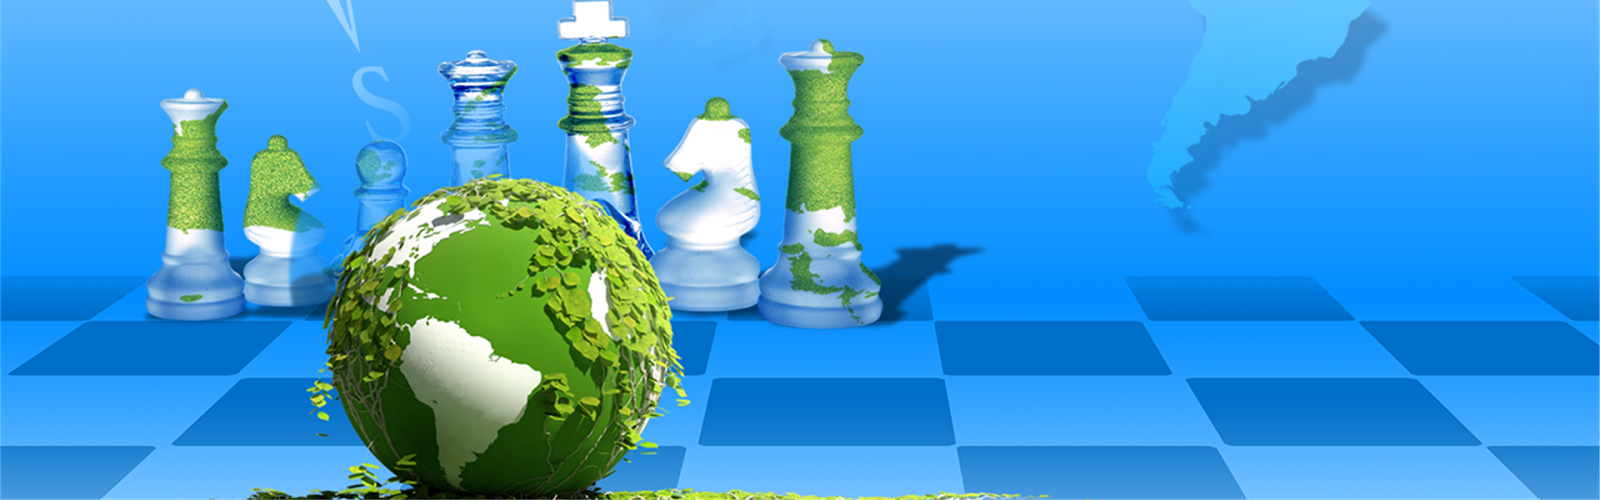
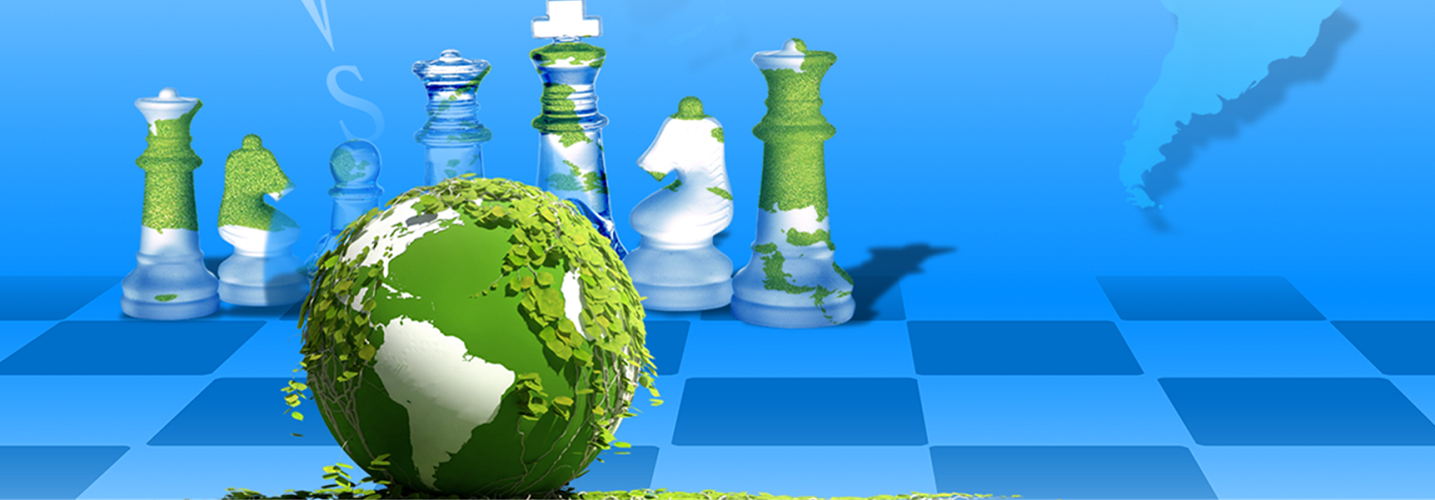
大图后续修改

diff --git a/static/css/home.css b/static/css/home.css
@@ -37,7 +37,7 @@ body {
 	height: 500px;
 	z-index: -10;
 	background: #FFF url(../image/h-enjoyevent-bg.jpg) no-repeat center center;
-	background-size: 100% 500px;
+	background-size: 1435px 500px;
 }
 #pic2 {
 	position: absolute;
@@ -51,7 +51,7 @@ body {
 	opacity:0;
 	filter:alpha(opacity=0); 
 	background: #FFF url(../image/3.png) no-repeat center center;
-	background-size:100% 500px;
+	background-size:1435px 500px;
 }
 #pic3 {
 	position: absolute;
@@ -65,7 +65,7 @@ body {
 	opacity:0;
 	filter:alpha(opacity=0); 
 	background: #FFF url(../image/4-4.jpg) no-repeat center center;
-	background-size:100% 500px;
+	background-size:1435px 500px;
 }
 #pic4 {
 	position: absolute;
@@ -79,7 +79,7 @@ body {
 	opacity:0;
 	filter:alpha(opacity=0); 
 	background: #FFF url(../image/h-x3v-bg.jpg) no-repeat center center;
-	background-size:100% 500px;
+	background-size:1435px 500px;
 }
 
 .current_pic .title1 h2 {
@@ -189,7 +189,7 @@ body {
 	text-align: center;
 	position: absolute;
 	top: 220px;
-	right: 100px;
+	right: 200px;
 }
 .high-title h2{
 	margin-bottom:40px;
@@ -222,7 +222,7 @@ body {
 	transform: translate3d(0,0,0);
 }
 .high-box {
-	width: 1005px;
+	width: 1200px;
 	height: 700px;
 	position: relative;
 	margin: auto;
@@ -341,7 +341,7 @@ body {
 	overflow: hidden;
 	position: absolute;
 	top: 0;
-	left: 40px;
+	left: 60px;
 	background: #000;
 }
 .figure1 {
@@ -368,7 +368,7 @@ body {
 #tip_top{
 	width:10px;
 	position:absolute;
-	left:97%;
+	left:92%;
 	top:325px;
 	z-index:14;
 }

diff --git a/static/js/pic.js b/static/js/pic.js
@@ -67,7 +67,7 @@ $(document).ready(function() {
   	run();             //加载页面时启动定时器  
 });
 function run() {  
-     interval = setInterval(fadetime, "6000");  
+     //interval = setInterval(fadetime, "6000");  
 }  
 function fadetime() {
 	$("#pic"+focus_fade).stop().animate({opacity: '0'},1000);

diff --git a/static/js/home.js b/static/js/home.js
@@ -77,6 +77,8 @@ $(document).ready(function() {
 });
 
 window.onload=function(){
+	var width=document.documentElement.clientWidth;
+	$(".title1 h3").css("left", parseInt(width/2)-717 + "px");
 	$("#pic1").addClass("current_pic");
 };
 

diff --git a/static/css/home_middle.css b/static/css/home_middle.css
@@ -71,6 +71,7 @@ li {
 	height:40px;
 	line-height:53px;
 }
+
 .title_right a{
 	color:#999;
 }

diff --git a/application/views/main_middle.php b/application/views/main_middle.php
@@ -7,7 +7,7 @@
 					<div class="cl"></div>
 				</div>
 				<div class="title_right">
-					<a href="<?php echo base_url('about?aid=1');?>">查看更多></a>
+					<a href="<?php echo base_url('about?aid=1');?>">查看更多></a> 
 				</div>
 				<div class="cl"></div>
 			</div>
